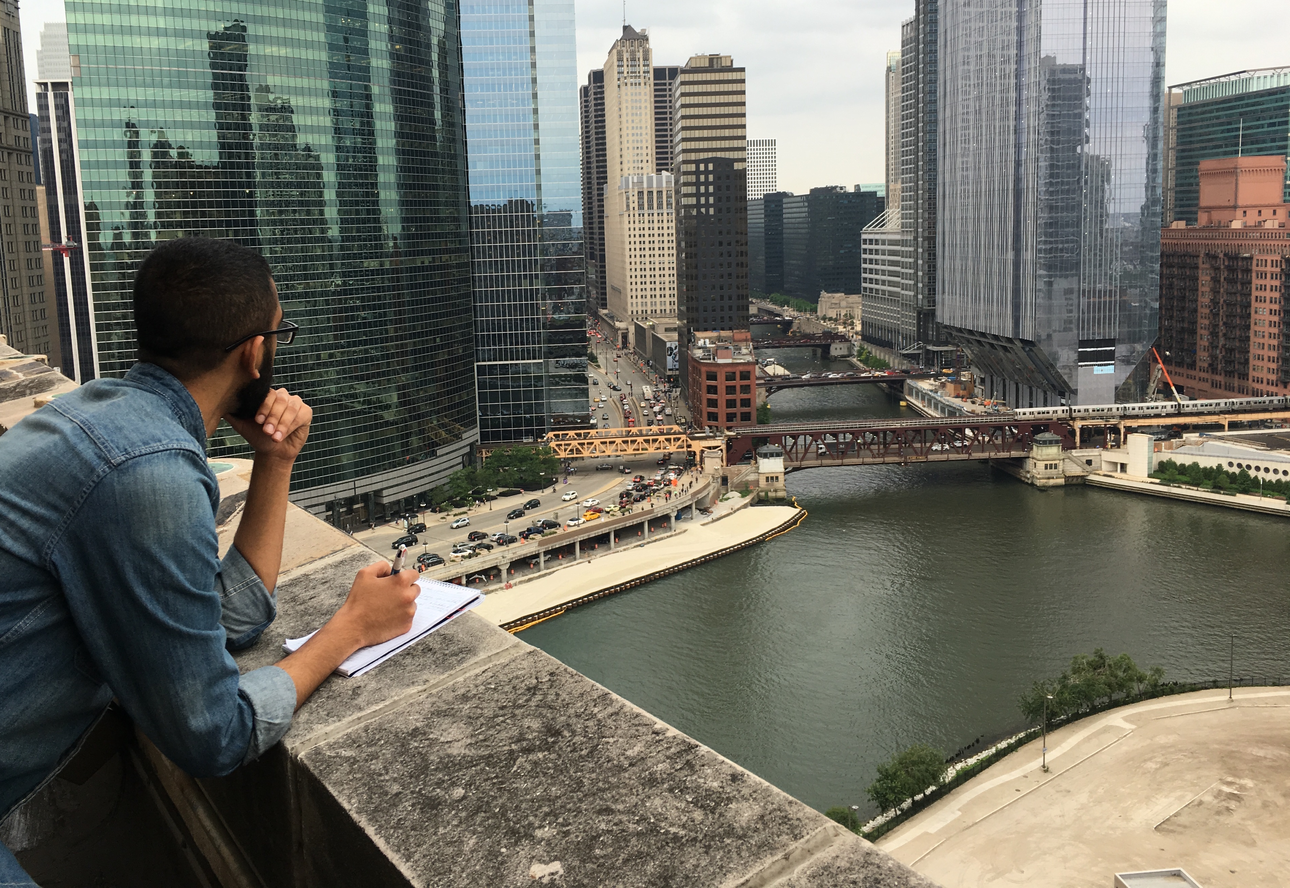
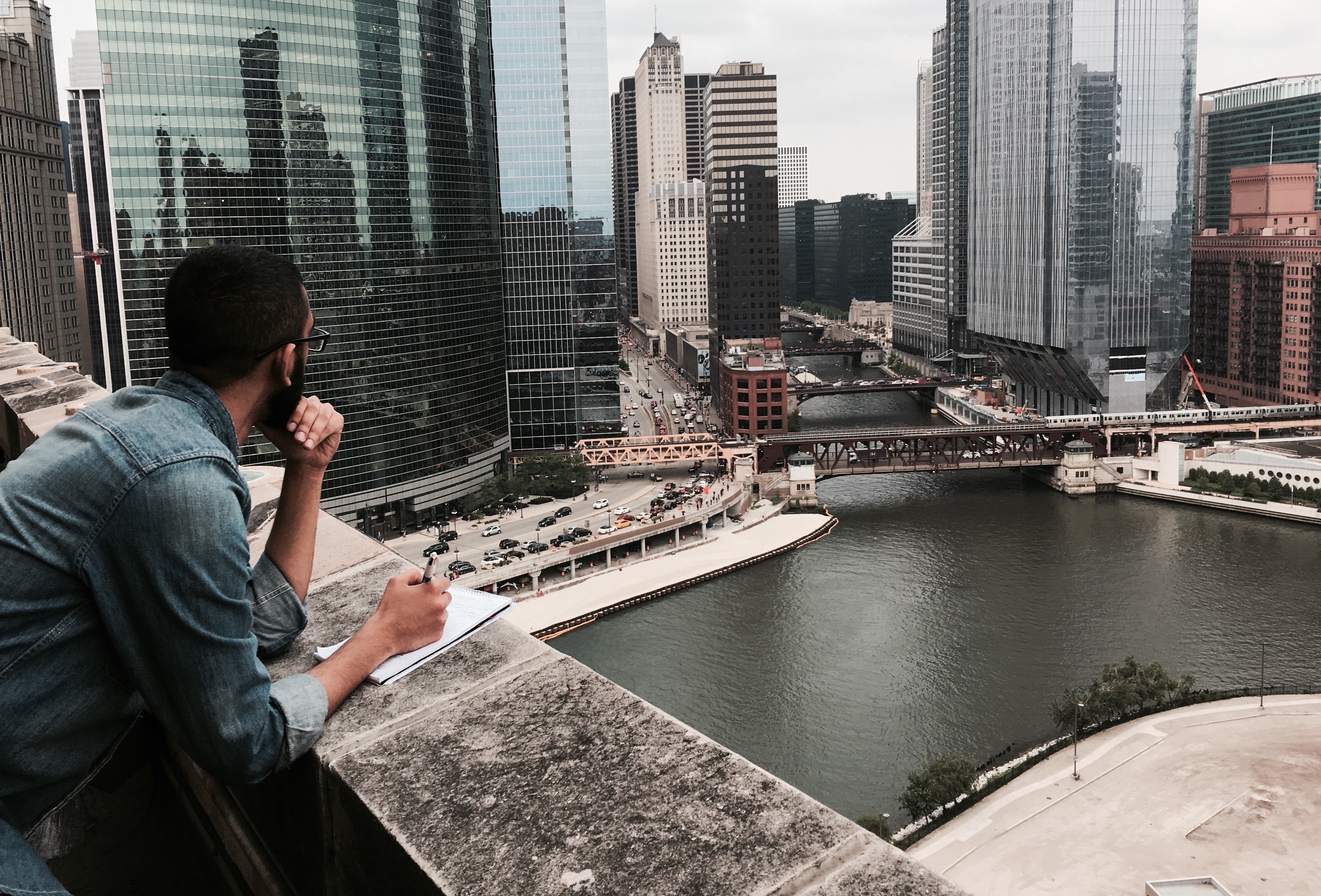
adjust index hero image

diff --git a/assets/css/style.css b/assets/css/style.css
@@ -440,9 +440,9 @@ textarea.form-control {
 }
 
 .home-overlay {
-    background-color: rgba(44, 62, 80, 0.3);
-    background-image: url("../images/pattern.png");
-    background-repeat: repeat;
+    background-color: rgba(44, 62, 80, 0.5);
+/*    background-image: url("../images/pattern.png");
+*/    background-repeat: repeat;
     height: 100%;
     left: 0;
     position: absolute;

diff --git a/align.html b/align.html
@@ -389,7 +389,7 @@
 								Businesses who can’t back up their big talk
 							</li>
 							<li>
-								General skepticism over profitablity of crowdfunding platforms
+								General skepticism over profitablity of crowdfunded investments
 							</li>
 						</ul>
 					</div>
